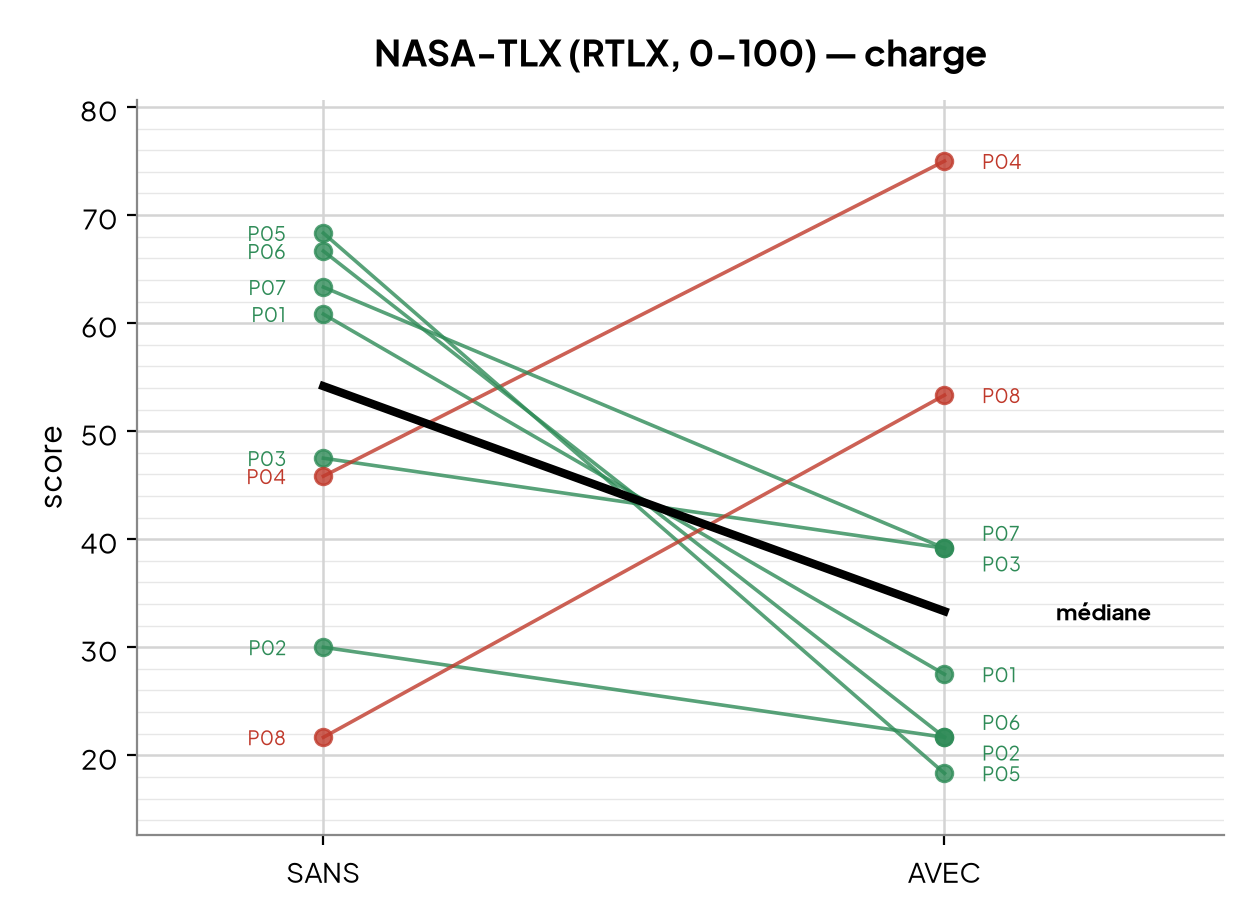
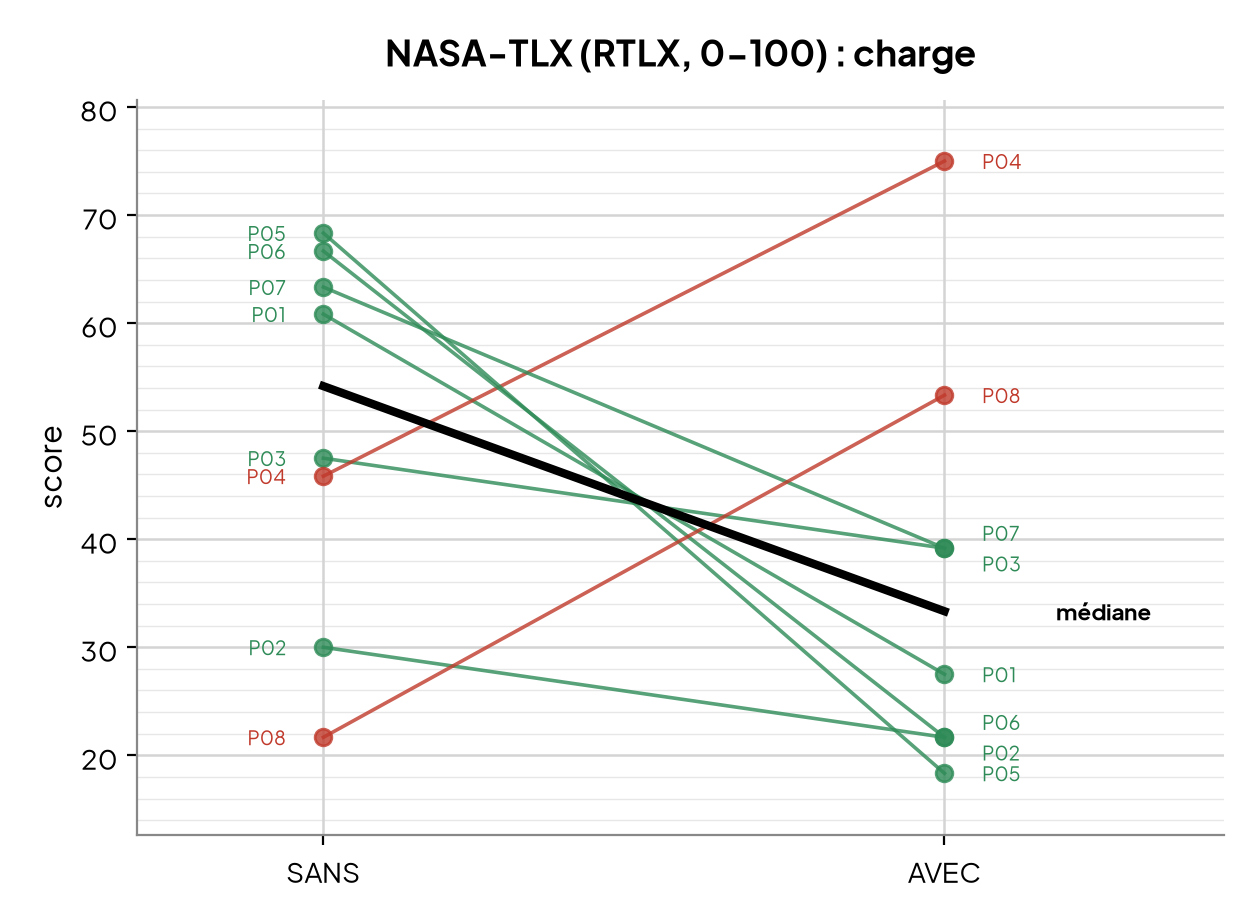
fix: relecture for path evaluation send-off edit

Changed region(s): [[0.2799, 0.0305, 0.7775, 0.0914]]

diff --git a/rapport/stats/present.py b/rapport/stats/present.py
@@ -90,9 +90,9 @@ setup_style()
 # code -> (direction H1, libellé). "less" = on prédit AVEC < SANS ; doit rester
 # IDENTIQUE aux directions du tableur et d'analyze_tests.py (sinon les couleurs mentent).
 MEASURES = {
-    "RTLX": ("less", "NASA-TLX (RTLX, 0-100) — charge"),
-    "STAI6": ("less", "STAI-6 (20-80) — anxiété"),
-    "SELFEFF": ("greater", "Auto-efficacité (1-7) — confiance"),
+    "RTLX": ("less", "NASA-TLX (RTLX, 0-100) : charge"),
+    "STAI6": ("less", "STAI-6 (20-80) : anxiété"),
+    "SELFEFF": ("greater", "Auto-efficacité (1-7) : confiance"),
 }
 
 # 6 dimensions NASA-TLX (colonne brute -> libellé). Perf saisie telle quelle

diff --git a/rapport/relecture-qr-eval-conclusion.md b/rapport/relecture-qr-eval-conclusion.md
@@ -1,0 +1,164 @@
+# Relecture FINALE : QR + Évaluation + Conclusion
+
+Relecture du PDF "Projet de Bachelor - Alexandre RIEDO (Pre ROTH review)".
+Périmètre demandé : **Questions de recherche** (p.6-7), **Évaluation** (p.13-46), **Conclusion** (p.47).
+Les numéros de page sont ceux imprimés en haut du PDF.
+
+> Cette passe est un **delta** sur la relecture précédente : la version "Pre ROTH review" a déjà
+> absorbé la plupart des points (citations, bilatéral, échelle auto-eff, Fig 10, etc.).
+> Tout ce qui est listé en §0 a été **vérifié comme corrigé** dans ce PDF. Les §1+ ne listent
+> que ce qui **reste** + le neuf trouvé cette passe.
+
+Vérifs d'arithmétique refaites cette passe : T+/T-/W, rangs, médianes (4.4→4.2 ; 75→35),
+r_rb des 3 mesures, comptages d'entretien (6/8 facilité, 6/7 charge, 6/8 sécurité, 6/8 3ème essai).
+**Tout concorde.** Les problèmes restants sont de présentation / coquilles, pas d'analyse.
+
+---
+
+## 0. Corrigé depuis la dernière relecture (vérifié dans ce PDF)
+
+- **Citations renumérotées + 3 sources ajoutées.** La biblio compte maintenant Bebop Vol.3 `[9]`,
+  la revue pianos augmentés 2022 (Deja et al.) `[11]`, Sandnes/Eika `[12]`. Les appels QR/État de l'art
+  pointent juste : Deja et al. `[11]`, ImproVisAR `[13]`, Chyu `[10]` partout, OMR `[15]`, Blues Scales `[16]`.
+- **Passage au test bilatéral, justifié.** Méthodo p.20 : "nous retenons le p bilatéral... nous ne
+  pouvons pas écarter a priori l'effet inverse... risque de surcharge que le professeur soulève et que
+  nous observons chez P04 et P08." Prose et tables alignées (TLX 0.25, auto-eff 0.47). C'était le point
+  le plus important : il est traité exactement comme recommandé.
+- **Échelle auto-efficacité** : Table 6 dit bien "(échelle 1-7)".
+- **Figure 10** correctement légendée ("Réponses libres à... le plus difficile").
+- **Table 8** (entretiens participants) : numérotée + légendée. Marqueur "non abordé" écrit en clair.
+- **Titres de figures sans tiret long** : "NASA-TLX (RTLX, 0-100) : charge", etc. (`:` au lieu de `—`).
+  Vérifié dans `rapport/stats/present.py` l.93-95 : corrigé. (Restent des `—` dans des **commentaires**
+  de code et messages console, jamais rendus dans le rapport : non bloquant.)
+- **Protocole décrit les 3 tours** de la condition AVEC (base / chord tones / anticipation d'une noire),
+  p.19 pt 4. La contradiction "uniquement le mode libre" vs entretiens est **levée** (voir 1.x résiduel).
+- **Coquilles corrigées** : "mesure" (ex-"mensuration"), "inverser" (ex-"invertir"), "écartée",
+  "motivé à proposer", "la semaine suivante", "Nous visons", "protocole", "question de recherche",
+  parenthèses "(1 à 7)" fermées, "indicative", "petites roues de vélo" (ex-"trous"),
+  double négation "On peut donc difficilement affirmer" (le "ne" parasite est parti).
+
+---
+
+## 1. RESTE À CORRIGER — important avant envoi
+
+### 1.1 Décimales non arrondies dans les tableaux (le plus visible)
+Inchangé depuis la dernière passe.
+- **Table 2 (p.26)** : "60.83333333", "21.66666667", "8.333333333"…
+- **Table 4 (p.28)** : mélange dans le **même tableau** "56.66666667" (8 déc.) et "-36.6667" / "-3.3333" (4 déc.).
+- **Tables 5 / 7** : "r (rang-bisér.) -0.4444444444", "0.3571428571" (10 décimales).
+➡ Composites à 1-2 décimales, r à 2 décimales, uniformiser. En l'état ça fait "export de tableur"
+brut, et c'est le premier truc que l'œil d'un juré accroche dans une table.
+
+### 1.2 STAI-6 : deux valeurs de p concurrentes + note en anglais
+- **Table 5 (p.28)** : headline "p bilatéral **0.3258**" (calculateur en ligne) + note **anglaise**
+  "NB: Scipy's exact gives p=0.156 since it handles ties differently".
+- **p.40** (prose) : "p a une valeur de **0.31** (la valeur exacte)" → c'est le bilatéral **scipy** (2×0.156).
+➡ Le lecteur voit 0.31 dans le texte et 0.3258 dans la table censée le sourcer. Choisir **un seul moteur**
+(scipy OU calculateur) et l'appliquer à la table ET à la prose. Passer la note en **français**, en prose,
+en expliquant la cause (gestion des ex-aequo) sans exposer deux chiffres rivaux. C'est la seule des 3
+mesures où ce flottement subsiste (TLX et auto-eff sont propres).
+
+### 1.3 Citation résiduelle p.41
+- **p.41 (auto-efficacité)** : "C'est un effet moyen **[20]**" → `[20]` = Hart & Field (NASA-TLX).
+  Le seuil de taille d'effet vient de Fritz et al. = **[24]** (comme p.40 STAI qui cite bien `[24]`).
+➡ Remplacer `[20]` par `[24]`. Dernier reliquat de la renumérotation.
+
+---
+
+## 2. COHÉRENCE — à régler, moins urgent
+
+### 2.1 Rangs ex-aequo incohérents (Table 2 vs 4/6)
+- **Table 2 (TLX)** : les deux diffs à 8.333 (P02, P03) reçoivent **rangs 1 et 2**.
+- **Tables 4 et 6** : rangs **moyens** corrects pour les ex-aequo (5/5/5, 7.5/7.5, 2.5/2.5, 5.5/5.5).
+➡ Mettre **1.5 / 1.5** sur le TLX pour homogénéité. **W et r ne changent pas** (1+2 = 1.5+1.5, et les deux
+sont du même côté), donc swap purement cosmétique, mais défendable face à un juré qui compare les 3 tables.
+
+### 2.2 QR mère : Intro vs section QR
+- **Intro p.2** (marquée TO EDIT) : "favoriser des improvisations jazz plus **créatives et bien conçues**".
+- **QR p.6** : "**soutenir l'improvisation jazz mélodique** dans le contexte de grille de standards swing".
+➡ Deux questions mères différentes. Tout le reste (QR1 charge / QR2 affect, conclusion) découle de
+"soutenir", pas de "créatives". Aligner l'Intro quand tu la sortiras du TO EDIT.
+
+### 2.3 "sous-question 1/2" vs "QR1/QR2"
+- p.7 et p.40 : "sous-question 1", "sous-questions". Méthodo p.20 et conclusion : "QR1 / QR2".
+➡ Fixer un vocabulaire : QR mère = "QR" ; sous-questions = "QR1" / "QR2" **partout** (y compris la
+colonne "Lien avec la QR" du tableau prof, qui sinon laisse croire qu'on parle des sous-questions).
+
+### 2.4 Séparateur décimal mixte
+- Figure 5 : "médiane **24,5**" (virgule). Prose p.22 : "médiane : **24.5** ans" (point). Reste du chapitre :
+  "r de 0.5", "27.5", "4.4" (point).
+➡ En rapport FR, virgule décimale. A minima, cohérence figure ↔ prose (ici la même médiane est écrite
+des deux façons à une ligne d'écart).
+
+### 2.5 Labels de difficulté en anglais (p.18)
+"4 niveaux de difficulté ('Super easy', 'easy', 'medium', 'pro')" : anglais + registre familier ("pro")
+dans un texte FR. ➡ "Très facile / Facile / Moyen / Avancé", ou justifier les labels.
+
+### 2.6 "Uniquement le mode libre" : reliquat de formulation
+La contradiction est **levée** (le protocole décrit les 3 tours), mais p.18 dit encore "uniquement le mode
+'libre'" alors que la condition AVEC enchaîne base → chord tones → anticipation.
+➡ Une demi-phrase suffit : préciser que chord tones et anticipation sont des **surcouches du mode libre**
+(pas d'autres exercices), montrées dans les tours AVEC. Sinon le lecteur attentif tique encore une seconde.
+
+### 2.7 Redondance des trois sections de clôture (soft)
+Interprétation (p.40-43), Croisement (p.44-46), Conclusion (p.47) répètent r=0.5/0.44/0.36, P04/P08 à
+contre-sens, n=8 sous-puissant, petites roues de vélo. C'est en partie voulu, mais Croisement ↔ Conclusion
+se recouvrent fort. ➡ Rôles distincts : Interprétation = mesure par mesure ; Croisement = mise en tension
+des sources + lecture par profil ; Conclusion = réponse aux 2 QR + ouverture. Élaguer les redites.
+
+---
+
+## 3. STYLE MAISON
+
+- **Guillemets « »** : Figure 10 garde le titre interne "« Ce qui est le plus difficile » : réponses libres".
+  Le corps respecte les guillemets droits → incohérence figures/corps. ➡ Passer les figures aux droits.
+- **Couverture** : "Leadsheet–Utility" semble utiliser un tiret demi-cadratin (–). Si c'est le cas,
+  règle maison = jamais "–". ➡ Vérifier sur le fichier source du titre (logo stylisé : décision à assumer).
+
+---
+
+## 4. COQUILLES (nouvelles cette passe, avec page)
+
+- **p.47 (Conclusion)** : "Son évaluation**,** ne donne que des tendances…" → **virgule parasite** à retirer.
+  Même phrase : "…jamais significatives (n = 8)**..**" → **double point** final, en garder un.
+- **p.15 et p.38** : "gamme **parton**" → "gamme **par ton(s)**" (whole-tone). Deux occurrences.
+- **p.22** : "a tendance **d'être** plus élevé" → "tendance **à être**" ; "**au dessus**" → "**au-dessus**".
+- **p.20** : "**Etant** donné que n=8" → "**Étant**" (accent sur la capitale).
+
+---
+
+## 5. MINEURS / À SURVEILLER
+
+- **Ordre AVEC/SANS** : tables = AVEC puis SANS ; graphiques en pente = SANS (gauche) → AVEC (droite).
+  Pas faux, mais expliciter la convention une fois éviterait un micro-trébuchement.
+- **Asymétrie figures** : seul le NASA-TLX a un graphique par dimension (Fig 13). OK, mais à assumer.
+- **Casse des thèmes** tableau prof p.14 : "Charge cognitive" vs "Charge cognitive, Pédagogie **J**azz".
+  Uniformiser la casse.
+- **"Ta gueule dedans quoi."** (verbatim prof, p.14) : à garder pour l'authenticité, mais c'est un choix de
+  registre à assumer face au jury.
+- **n effectif auto-eff = 7** (P03 d=0 retiré) : correct et déjà indiqué en Table 7. La conclusion parle
+  de "n = 8" globalement : OK comme taille d'échantillon, juste garder en tête que la puissance auto-eff
+  est encore plus faible (n=7).
+
+---
+
+## 6. CE QUI TIENT BIEN (ne pas toucher)
+
+- **Arithmétique Wilcoxon recoupée** : T+/T-/W cohérents (TLX 9/27, STAI 10/26, auto-eff 19/9 à n=7),
+  r_rb et médianes justes. Les comptages d'entretien (6/8, 6/7…) tombent juste sur la Table 8.
+- **Honnêteté statistique exemplaire et constante** : "tendances", "indicatif et sous-puissant (n=8)",
+  jamais de significativité revendiquée. Le passage au bilatéral retire au jury l'angle "pourquoi unilatéral ?"
+  sans rien coûter aux conclusions (rien n'est significatif dans aucun sens).
+- **Cadrage QR1 (charge) / QR2 (affect)** clair et tenu de bout en bout.
+- **Croisement des regards** : reconnaît explicitement les confusions (ordre × difficulté × condition,
+  lecture par profil ad-hoc, biais de désirabilité car le concepteur a mené les tests). Solide et défendable.
+- **Le contre-récit P04/P08** est bien géré : profil (lecteurs de grille chevronnés), morceaux les plus durs
+  (26-2, Giant Steps) confiés à AVEC, séance unique trop courte. Honnête sans s'auto-saboter.
+
+---
+
+## 7. HORS PÉRIMÈTRE mais à signaler (État de l'art / Solution conceptuelle)
+
+- **p.9 / p.10 / Fig 2** : "**Sadnens**/Eika" → "**Sandnes**/Eika" (p.5 l'écrit bien "Sandnes" dans le corps,
+  donc incohérence interne en plus de la faute). Très visible car répété 3 fois autour de la Figure 2.
+- **p.13** : "Solution Technique (TODO) — TBD" : section vide. Connue, mais le prof la verra.
